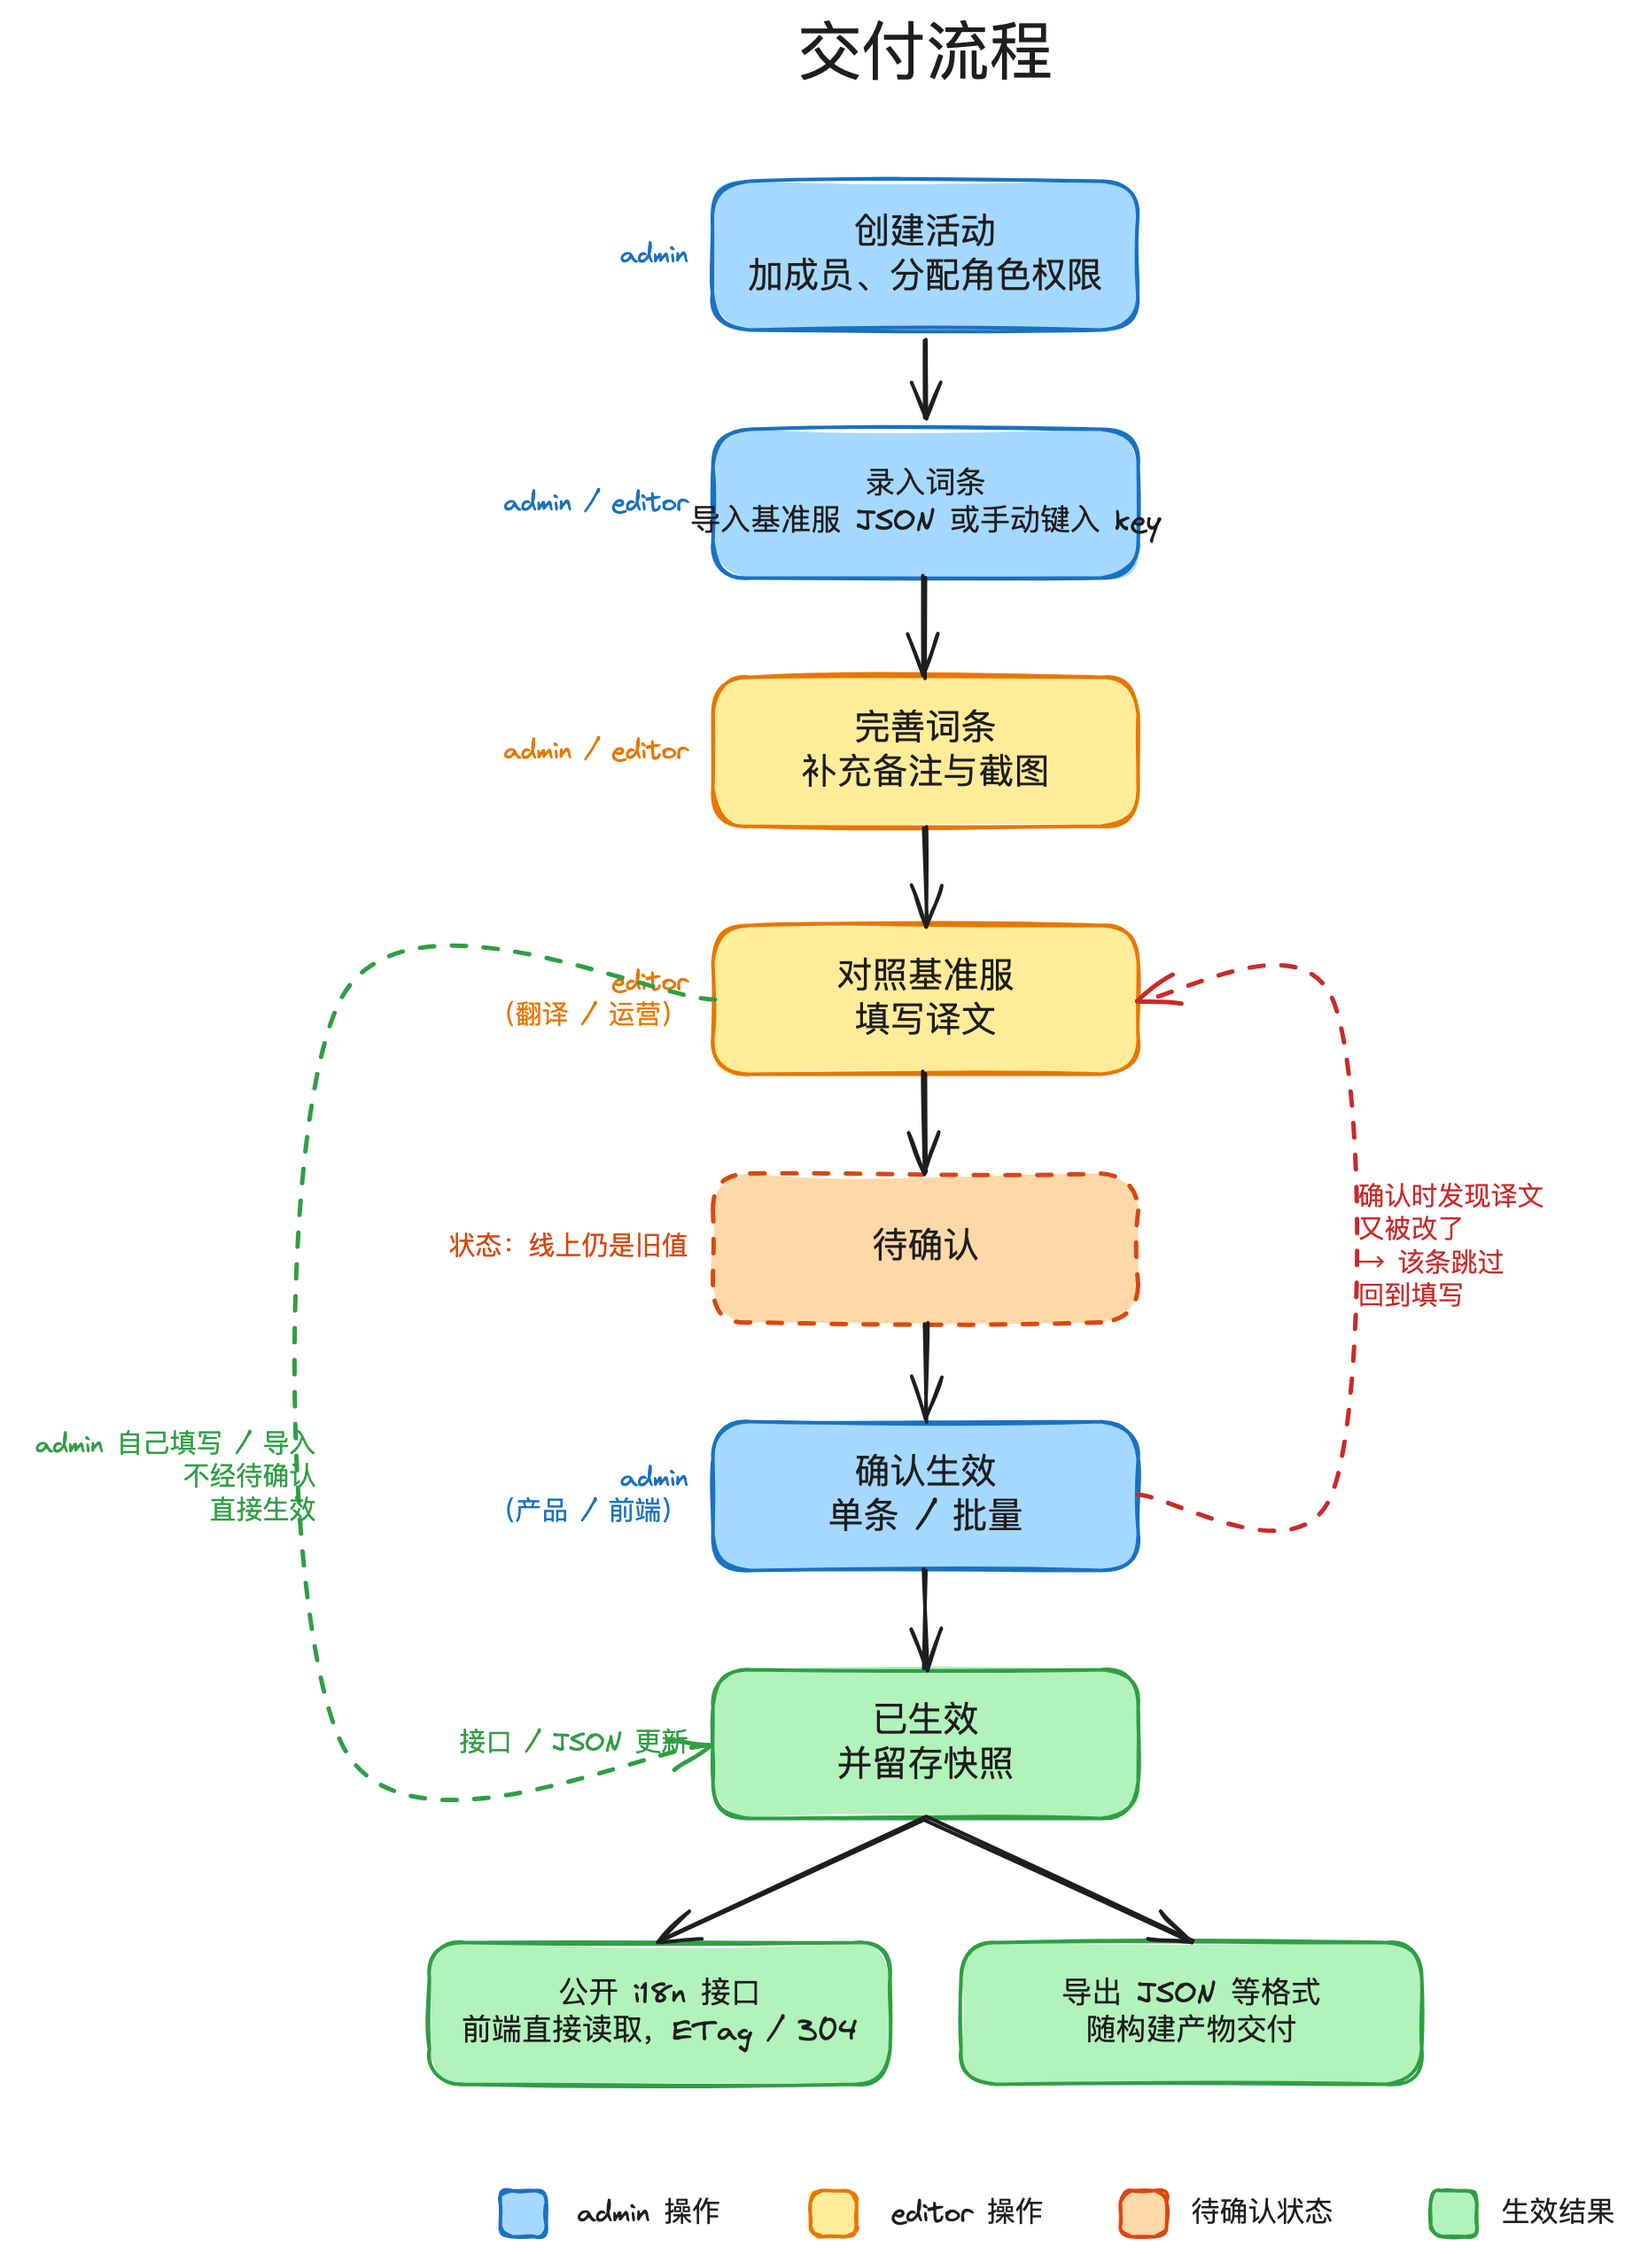
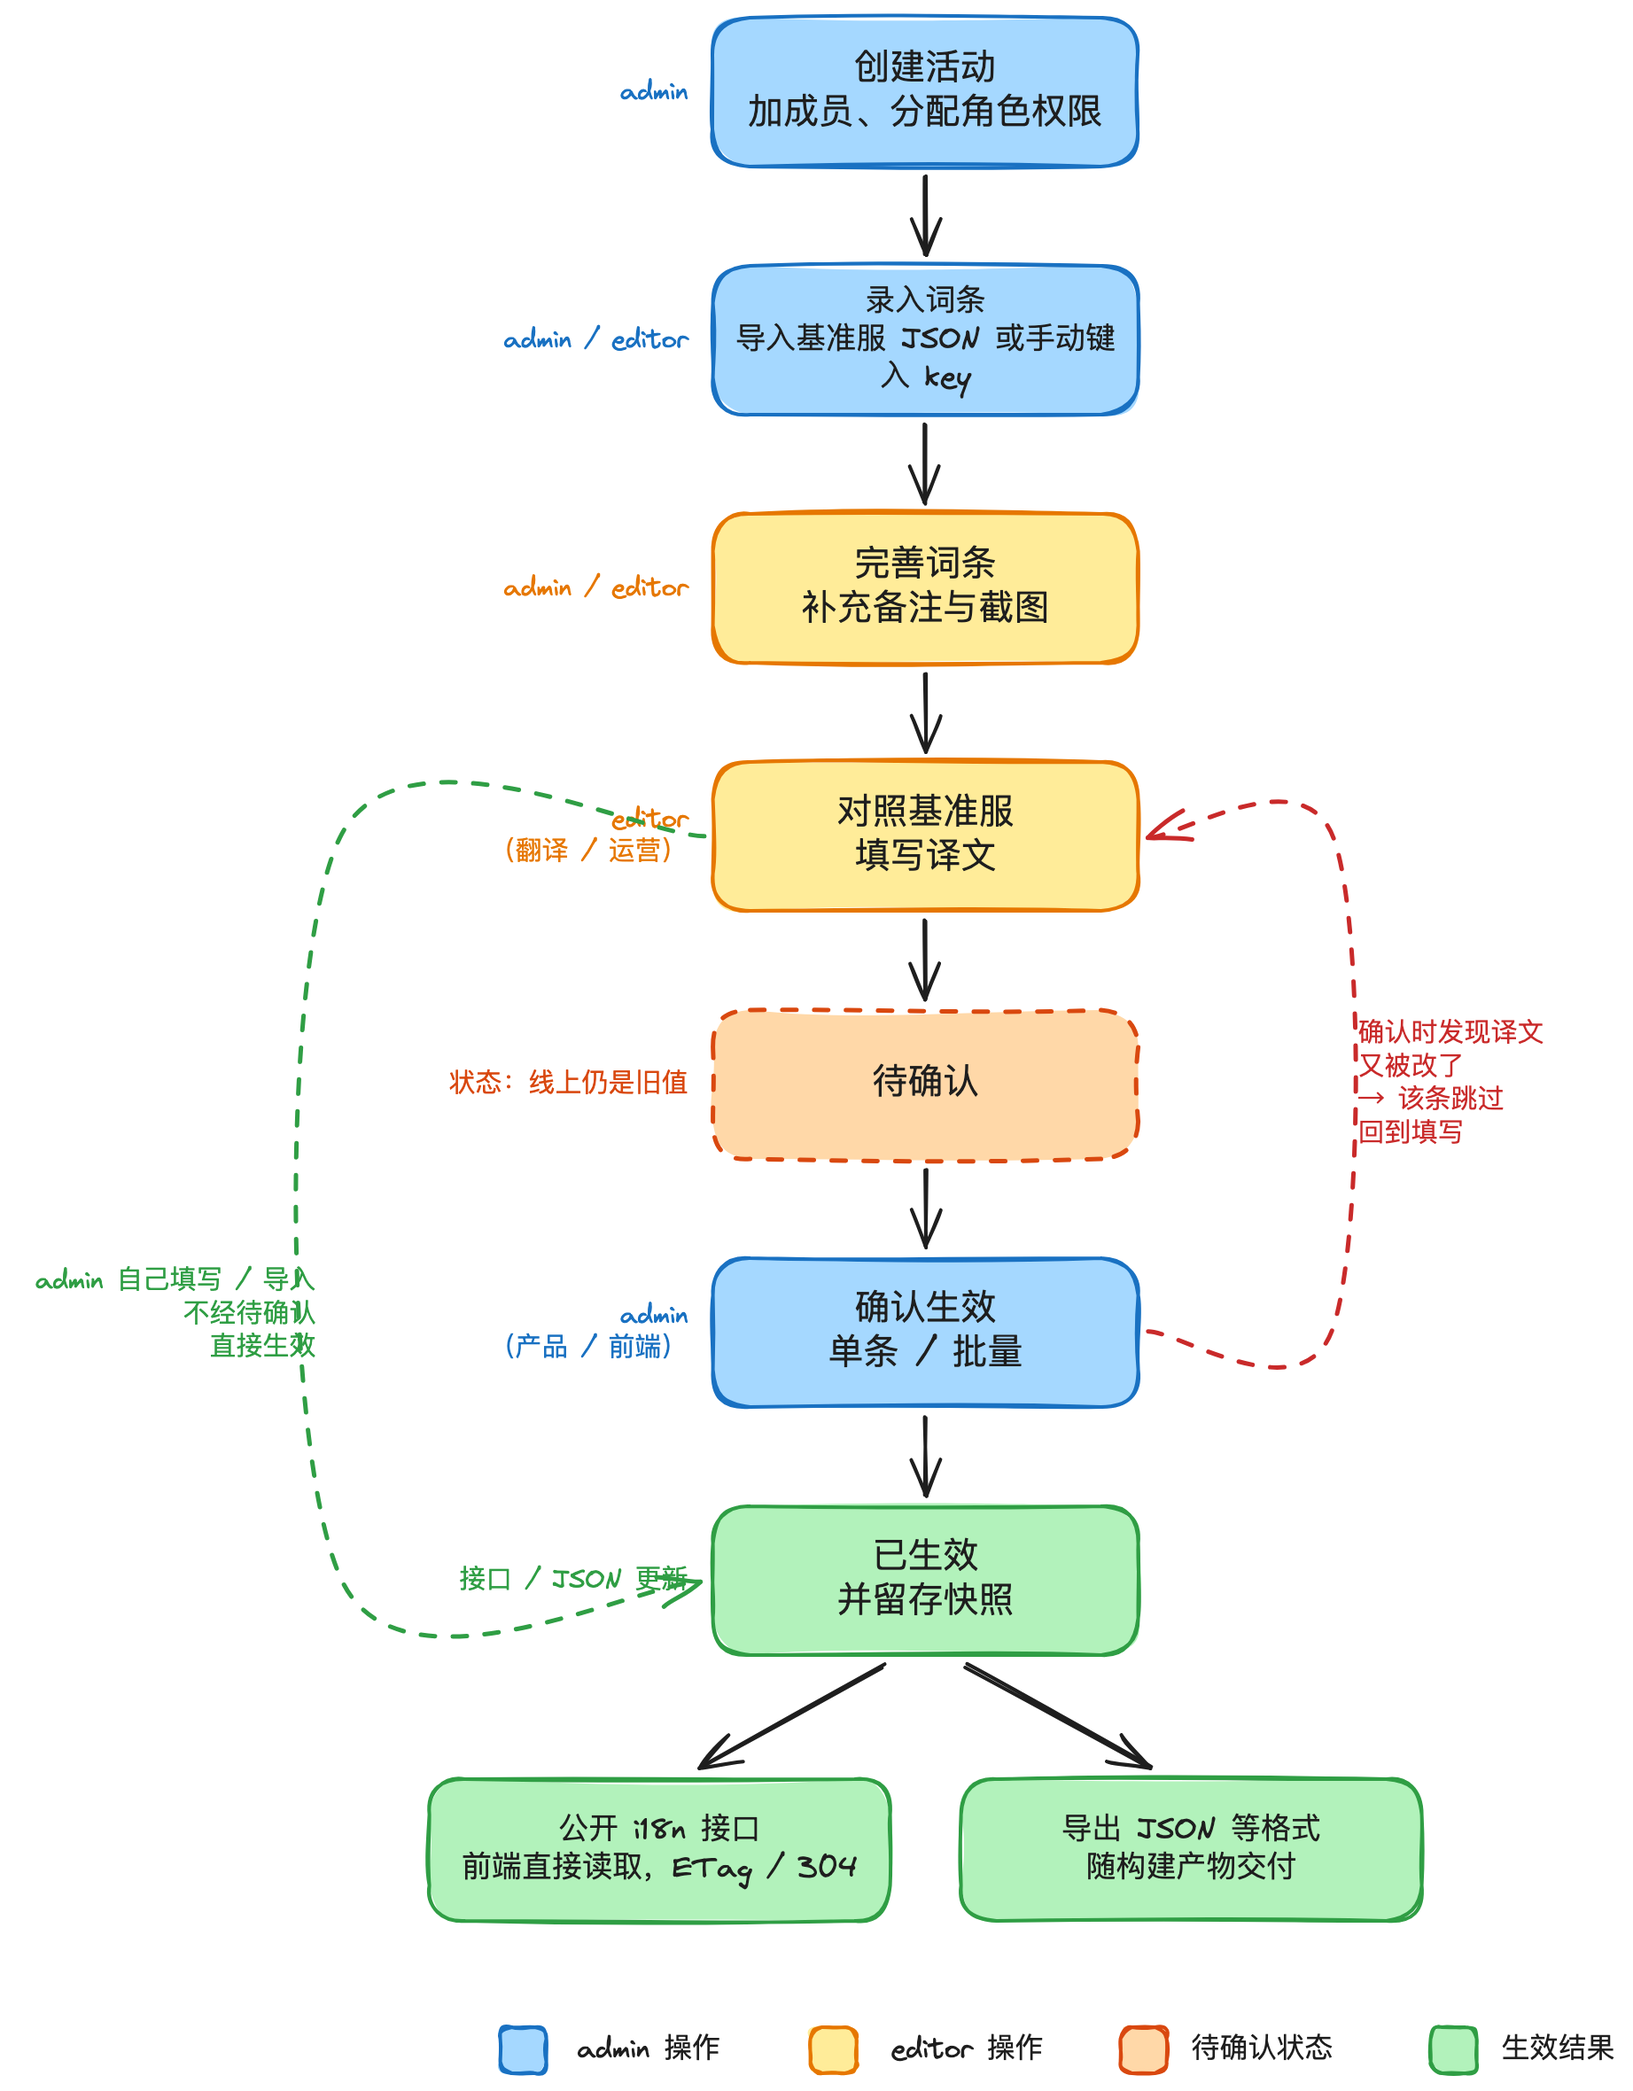
docs: improve

diff --git a/设计交互背景.md b/设计交互背景.md
@@ -213,9 +213,15 @@ GET https://xxx/api/v1/i18n/1590554a-.../ja_JP?includeEmpty=true
 业务前端 / 脚本 ──公开读取接口或带凭证的接口──▶ 后端（NestJS）
 ```
 
-### 3.2 后续规划：后端由 NestJS 迁移到 Go（Gin）
+### 3.2 后续规划
+
+**1. 后端由 NestJS 迁移到 Go（Gin）**
 
 后续计划把后端从 NestJS 换成 **Go + Gin** 框架实现，前端和数据库保持不变。迁移时遵循以下原则：
 
-- **接口协议不变**：保持 `/api/v1` 下的路径、请求参数和返回结构一致，这样前端、业务前端和已有脚本都不需要改动。
+- **接口协议基本不变**：保持 `/api/v1` 下的路径、请求参数和返回结构一致（登录相关接口见下一条），这样前端、业务前端和已有脚本都不需要改动。
 - **数据库不变**：继续使用现有的 MySQL 表结构和数据，迁移时只替换访问数据库的代码。
+
+**2. 接入公司 IDaaS 登录**
+
+目前成员靠「管理员添加公司邮箱」登录后续计划接入公司的 **IDaaS（统一身份认证）**，让登录更方便
